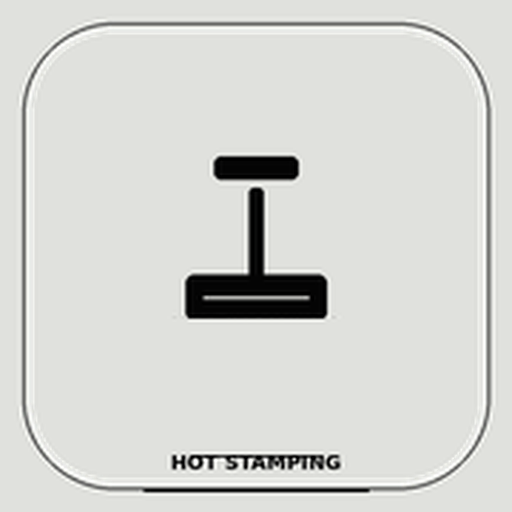
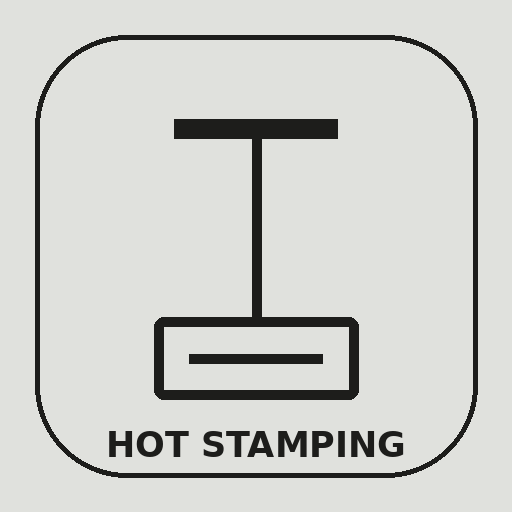
Add files via upload

Changed region(s): [[0.0312, 0.0312, 0.9688, 0.9688], [0.2812, 0.2188, 0.7188, 0.7812]]

diff --git a/hot-stamping/index.html b/hot-stamping/index.html
@@ -1,141 +1,12 @@
-<!DOCTYPE html>
-<html lang="fr"><head><meta charset="utf-8"/><meta content="width=device-width, initial-scale=1.0, maximum-scale=1.0, user-scalable=no, viewport-fit=cover" name="viewport"/><meta content="yes" name="apple-mobile-web-app-capable"/><meta content="#d8d8d3" name="theme-color"/><link href="manifest.json" rel="manifest"/><link href="apple-touch-icon.png" rel="apple-touch-icon"/><title>Hot Stamping Calculator V2</title><style>
-:root{--bg:#d8d8d3;--card:#eeeeea;--card2:#f6f6f2;--line:#8d8d86;--txt:#1d1d1b;--muted:#5f5f58;--accent:#1d1d1b;--yellow:#f4f1df;--yellowb:#9a9a91;--ok:#237a3b;--warn:#a76b00;--err:#b42318;--res:#e5e5df;--valid:#d9eadb}*{box-sizing:border-box;-webkit-tap-highlight-color:transparent}html,body{margin:0;background:var(--bg);color:var(--txt);font-family:-apple-system,BlinkMacSystemFont,"Segoe UI",Roboto,Helvetica,Arial,sans-serif;font-size:17px;line-height:1.4;overflow-x:hidden}body{padding:env(safe-area-inset-top) env(safe-area-inset-right) max(18px,env(safe-area-inset-bottom)) env(safe-area-inset-left)}.wrap{width:100%;max-width:none;margin:0;padding:12px}.card{background:var(--card);border:1px solid var(--line);border-radius:16px;padding:16px;margin-bottom:16px;box-shadow:0 4px 16px rgba(0,0,0,.12)}.brand-card{text-align:center;padding:18px}.brand-logo{width:142px;max-width:42%;height:auto;display:block;margin:0 auto}.card h2{margin:0 0 14px;font-size:15px;text-transform:uppercase;letter-spacing:.6px;color:var(--accent);display:flex;align-items:center;gap:8px}.card h2 .dot{width:8px;height:8px;border-radius:50%;background:var(--accent)}label{display:block;font-size:14px;color:var(--muted);margin:12px 0 6px;font-weight:650}.field{position:relative}.unit{position:absolute;right:14px;top:50%;transform:translateY(-50%);color:var(--muted);font-size:14px;pointer-events:none}select,input{width:100%;padding:14px 15px;font-size:17px;border-radius:12px;border:1.5px solid var(--yellowb);background:#fff;color:#1d1d1b;font-family:inherit;appearance:none;-webkit-appearance:none}input:focus,select:focus{outline:none;border-color:var(--accent);box-shadow:0 0 0 3px rgba(29,29,27,.12)}textarea{width:100%;min-height:74px;padding:14px 15px;font-size:17px;border-radius:12px;border:1.5px solid var(--yellowb);background:#fff;color:#1d1d1b;font-family:inherit}.row{display:grid;grid-template-columns:1fr 1fr;gap:12px}.hidden{display:none!important}.res-main{display:grid;grid-template-columns:1fr 1fr 1fr;gap:12px;margin-bottom:14px}.res-big{background:var(--res);border:1px solid var(--line);border-radius:14px;padding:16px;text-align:center}.res-big.valid{background:var(--valid);border-color:#237a3b}.res-big .lbl{font-size:12px;color:var(--muted);text-transform:uppercase;letter-spacing:.5px}.res-big .val{font-size:30px;font-weight:850;color:#1d1d1b;margin:4px 0 0;line-height:1}.res-big .u{font-size:13px;color:var(--muted);font-weight:650}.res-line{display:flex;justify-content:space-between;align-items:center;padding:12px 0;border-bottom:1px solid var(--line);gap:12px}.res-line:last-child{border-bottom:none}.res-line .k{font-size:14px;color:var(--muted);flex:1}.res-line .v{font-size:16px;font-weight:750;text-align:right}.badge{display:inline-block;padding:3px 10px;border-radius:20px;font-size:12px;font-weight:750}.badge.ok{background:rgba(35,122,59,.14);color:#237a3b}.badge.warn{background:rgba(167,107,0,.14);color:#734a00}.vigil{background:rgba(29,29,27,.06);border-left:3px solid var(--accent);padding:12px 14px;border-radius:8px;margin-top:14px;font-size:14px;color:#30302d}.valid-banner{background:rgba(35,122,59,.1);border-left:3px solid var(--ok);padding:10px 14px;border-radius:8px;margin:12px 0;font-size:13px;color:#237a3b}.btn{width:100%;padding:15px;border:none;border-radius:12px;font-size:16px;font-weight:750;margin-top:12px}.btn-save{background:#1d1d1b;color:#fff}.btn-ghost{background:var(--card2);color:var(--muted);font-size:14px;font-weight:650;padding:13px;border:1px solid var(--line)}.btn-row{display:grid;grid-template-columns:1fr 1fr;gap:10px}.calib-item{background:var(--card2);border:1px solid var(--line);border-radius:10px;padding:12px;margin-bottom:8px;font-size:13px}.calib-item .t{font-weight:750;color:#1d1d1b;font-size:13px}.calib-item .s{color:var(--muted);margin-top:4px}.empty{color:var(--muted);font-size:13px;text-align:center;padding:14px}.toast{position:fixed;bottom:24px;left:50%;transform:translateX(-50%);background:#1d1d1b;color:#fff;padding:12px 22px;border-radius:30px;font-weight:750;font-size:15px;box-shadow:0 8px 24px rgba(0,0,0,.25);opacity:0;transition:opacity .3s;z-index:50}.toast.show{opacity:1}.label-row{display:flex;align-items:center;justify-content:space-between;gap:10px;margin:12px 0 6px}.label-row label{margin:0}.mini-plus{width:34px;height:34px;border:none;border-radius:10px;background:var(--accent);color:#fff;font-size:24px;font-weight:850;line-height:1;display:flex;align-items:center;justify-content:center;box-shadow:0 3px 10px rgba(0,0,0,.16)}.selector-card{padding:10px;margin-bottom:16px}.version-row{display:grid;grid-template-columns:1fr 1fr 1fr;gap:8px}.version-row a{display:block;text-align:center;text-decoration:none;color:var(--txt);background:var(--card2);border:1px solid var(--line);border-radius:12px;padding:12px 6px;font-size:14px;font-weight:800}.version-row a.active{background:var(--accent);color:#fff;border-color:var(--accent)}.foot{text-align:center;color:var(--muted);font-size:12px;margin-top:8px}
-
-/* ============================================================
-   FPM Manufacturing Tools - Layout harmonise type Laser
-   Ajout: disposition 2 colonnes + carte bottom pleine largeur
-   Ne modifie pas les calculs ni les tables Supabase.
-   ============================================================ */
-html,body{background:var(--bg)!important;color:var(--txt)!important;}
-body{padding:16px 16px 40px!important;}
-.wrap{width:100%!important;max-width:1180px!important;margin:0 auto!important;padding:0!important;display:grid!important;grid-template-columns:1fr 1fr!important;gap:14px!important;}
-.card{border-radius:20px!important;box-shadow:0 4px 16px rgba(0,0,0,.12)!important;margin-bottom:0!important;}
-.card h2{font-size:18px!important;text-transform:none!important;letter-spacing:0!important;}
-.card h2 .dot{width:10px!important;height:10px!important;background:var(--accent)!important;}
-select,input,textarea{background:#fff!important;color:var(--txt)!important;border-color:var(--yellowb)!important;}
-input:focus,select:focus,textarea:focus{border-color:var(--accent)!important;box-shadow:0 0 0 3px rgba(29,29,27,.12)!important;}
-.res-big{border-radius:18px!important;box-shadow:none!important;}
-.res-big.valid{background:var(--valid)!important;border-color:var(--ok)!important;}
-.btn-save{background:#1d1d1b!important;color:#fff!important;background-image:none!important;}
-.btn-ghost{background:var(--card2)!important;color:var(--txt)!important;border:1px solid var(--line)!important;}
-.hub-back-btn{position:fixed;top:max(12px,env(safe-area-inset-top));left:max(12px,env(safe-area-inset-left));z-index:9999;height:42px;padding:0 14px;border-radius:999px;border:1px solid var(--line);background:var(--card2);color:var(--txt);font-size:14px;font-weight:850;display:flex;align-items:center;gap:7px;box-shadow:0 4px 14px rgba(0,0,0,.14);cursor:pointer}.hub-back-btn:hover{background:var(--accent);color:#fff}
-@media(max-width:860px){body{padding:12px 12px 32px!important}.wrap{display:block!important;max-width:none!important}.card,#results,#calib{margin-bottom:14px!important}.hub-back-btn{height:38px;padding:0 11px;font-size:13px}}
-
-/* Hot Stamping: logo + langues en haut, entrees a gauche, resultats a droite, calibration en bas */
-.brand-card,.selector-card{grid-column:1 / -1!important;}
-.brand-card{padding:18px!important;}
-.brand-logo{max-width:110px!important;width:110px!important;}
-.wrap > .card:nth-of-type(3){grid-column:1!important;grid-row:3!important;}
-.wrap > .card:nth-of-type(4){grid-column:1!important;grid-row:4!important;}
-#results{grid-column:2!important;grid-row:3 / span 2!important;}
-#calib{grid-column:1 / -1!important;display:grid!important;grid-template-columns:1fr 1fr!important;gap:14px!important;}
-#calib .card{margin-bottom:0!important;}
-@media(max-width:860px){#calib{display:block!important}.brand-logo{width:96px!important;}}
-
-</style><link href="layout-final-hot-stamping.css" rel="stylesheet"/></head><body>
-<button class="hub-back-btn" onclick="goHub()" type="button">🏠 Hub</button>
-<div class="wrap">
-<div class="card brand-card"><img alt="Hot Stamping" class="brand-logo" src="logo-hot-stamping.png"/></div><div class="card selector-card"><div class="version-row"><a href="#" id="lnk-fr" onclick="setLang('fr');return false;">Version FR</a><a href="#" id="lnk-en" onclick="setLang('en');return false;">Version English</a><a href="#" id="lnk-pt" onclick="setLang('pt');return false;">Version Português</a></div></div><div class="card"><h2><span class="dot"></span><span data-t="machineTitle"></span></h2><div class="label-row"><label data-t="machine"></label><button class="mini-plus" onclick="addHotMachine()">+</button></div><select id="machine"></select><div class="row"><div><label data-t="tmax"></label><div class="field"><input id="machineTempMax" type="number" value="160"/><span class="unit">°C</span></div></div><div><label data-t="pmax"></label><div class="field"><input id="machinePressureMax" type="number" value="8"/><span class="unit">bar</span></div></div></div><label data-t="site"></label><input id="site" type="text" value="Atelier"/></div><div class="card"><h2><span class="dot"></span><span data-t="inputsTitle"></span></h2><div class="label-row"><label data-t="support"></label><button class="mini-plus" onclick="addHotSupport()">+</button></div><select id="support"></select><div class="label-row"><label data-t="foil"></label><button class="mini-plus" onclick="addHotFoil()">+</button></div><select id="foil"></select><div class="row"><div><label data-t="area"></label><div class="field"><input id="area" step="0.1" type="number" value="10"/><span class="unit">cm²</span></div></div><div><label data-t="operator"></label><input id="operator" type="text" value="Atelier"/></div></div></div><div id="results"><div class="card"><h2><span class="dot"></span>📋 <span data-t="quick"></span></h2><div class="res-main"><div class="res-big" id="boxTemp"><div class="lbl" data-t="temp"></div><div class="val" id="rTemp">–</div><div class="u">°C</div></div><div class="res-big" id="boxPress"><div class="lbl" data-t="pressure"></div><div class="val" id="rPressure">–</div><div class="u">bar</div></div><div class="res-big" id="boxDwell"><div class="lbl" data-t="dwell"></div><div class="val" id="rDwell">–</div><div class="u">s</div></div></div><div class="res-line"><span class="k" data-t="supplier"></span><span class="v" id="rSupplier">–</span></div><div class="res-line"><span class="k" data-t="color"></span><span class="v" id="rColor">–</span></div><div class="res-line"><span class="k" data-t="alert"></span><span class="v" id="rAlert">–</span></div><div class="vigil" id="rVigil">–</div></div></div><div id="calib"><div class="card"><h2><span class="dot"></span>🎯 <span data-t="calib"></span></h2><p data-t="calibp" style="font-size:13px;color:var(--muted);margin:0 0 6px"></p><div class="row"><div><label data-t="ctemp"></label><div class="field"><input id="cTemp" type="number"/><span class="unit">°C</span></div></div><div><label data-t="cpress"></label><div class="field"><input id="cPress" step="0.1" type="number"/><span class="unit">bar</span></div></div></div><label data-t="cdwell"></label><div class="field"><input id="cDwell" step="0.01" type="number"/><span class="unit">s</span></div><label data-t="note"></label><textarea id="cNote"></textarea><button class="btn btn-save" data-t="save" onclick="saveCalib()"></button><div class="btn-row"><button class="btn btn-ghost" data-t="fill" onclick="fillFromResult()"></button><button class="btn btn-ghost" onclick="loadHotCalibrations()">↻ Recharger</button></div></div></div><div class="card hot-supabase-card"><h2><span class="dot"></span>☁ <span data-t="cloud"></span></h2><div id="hotCalibList"><div class="empty">Aucune donnée chargée.</div></div></div><div class="toast" id="toast"></div><p class="foot" data-t="foot"></p></div><script>
-const SUPABASE_URL="https://erzuvpswagzwlrxgctaj.supabase.co";
-const SUPABASE_KEY="sb_publishable_EERLI2l3AjQWkCLsMK3kbA_DMny2RFr";
-const CALIB_TABLE='Hot_Stamping_calibrations';
-let lang=localStorage.getItem('hot_lang')||'fr';const $=id=>document.getElementById(id);function t(k){return TXT[lang][k]||TXT.fr[k]||k;}function num(id){return parseFloat(($(id).value||'').toString().replace(',','.'));}function r1(x){return (Math.round(Number(x||0)*10)/10).toString().replace('.',lang==='en'?'.':',');}function r2(x){return (Math.round(Number(x||0)*100)/100).toString().replace('.',lang==='en'?'.':',');}function toast(msg){let to=$('toast');to.textContent=msg;to.className='toast show';setTimeout(()=>to.className='toast',1800);}function sbHeaders(extra={}){return{apikey:SUPABASE_KEY,Authorization:`Bearer ${SUPABASE_KEY}`,'Content-Type':'application/json',...extra};}
-const TXT={fr:{machineTitle:'Entrées machine',machine:'Machine',tmax:'Température max machine',pmax:'Pression max machine',site:'Site',inputsTitle:'Support & folio',support:'Support',foil:'Folio',area:'Surface marquée',operator:'Opérateur',quick:'Lecture rapide',temp:'Température',pressure:'Pression',dwell:'Temps de pose',supplier:'Fournisseur',color:'Couleur',alert:'Alerte machine',calib:'Calibration atelier',calibp:'Les champs sont préremplis depuis le folio sélectionné. Modifiez-les puis enregistrez le réglage validé.',ctemp:'Température validée',cpress:'Pression validée',cdwell:'Temps validé',note:'Remarque',save:'💾 Enregistrer comme réglage validé',fill:'⤵ Reprendre valeurs calculées',cloud:'Bibliothèque Supabase Hot Stamping',foot:'Hot Stamping Calculator V2 Supabase FR / EN / PT.'},en:{machineTitle:'Machine inputs',machine:'Machine',tmax:'Machine max temperature',pmax:'Machine max pressure',site:'Site',inputsTitle:'Support & foil',support:'Support',foil:'Foil',area:'Stamped area',operator:'Operator',quick:'Quick read',temp:'Temperature',pressure:'Pressure',dwell:'Dwell time',supplier:'Supplier',color:'Color',alert:'Machine alert',calib:'Shop calibration',calibp:'Fields are pre-filled from the selected foil. Adjust them before saving the validated setting.',ctemp:'Validated temperature',cpress:'Validated pressure',cdwell:'Validated dwell time',note:'Note',save:'💾 Save as validated setting',fill:'⤵ Reuse calculated values',cloud:'Supabase Hot Stamping library',foot:'Hot Stamping Calculator V2 Supabase FR / EN / PT.'},pt:{machineTitle:'Entradas da máquina',machine:'Máquina',tmax:'Temperatura máxima da máquina',pmax:'Pressão máxima da máquina',site:'Site',inputsTitle:'Suporte & folha',support:'Suporte',foil:'Folha',area:'Área marcada',operator:'Operador',quick:'Leitura rápida',temp:'Temperatura',pressure:'Pressão',dwell:'Tempo de contacto',supplier:'Fornecedor',color:'Cor',alert:'Alerta máquina',calib:'Calibração de oficina',calibp:'Os campos são preenchidos a partir da folha selecionada. Ajuste antes de guardar.',ctemp:'Temperatura validada',cpress:'Pressão validada',cdwell:'Tempo validado',note:'Nota',save:'💾 Guardar como ajuste validado',fill:'⤵ Reutilizar valores calculados',cloud:'Biblioteca Supabase Hot Stamping',foot:'Hot Stamping Calculator V2 Supabase FR / EN / PT.'}};
-const DEFAULT_MACHINES=[{name:'Générique',temperature_max:160,pressure_max:8,dwell_time_max:2,site:'Atelier'},{name:'Presse manuelle',temperature_max:150,pressure_max:6,dwell_time_max:2,site:'Atelier'}];
-const DEFAULT_SUPPORTS=[{code:'paper',name_fr:'Papier couché / carton couché',name_en:'Coated paper / coated board',name_pt:'Papel revestido / cartão revestido',family:'Papier'},{code:'pu',name_fr:'PU / similicuir',name_en:'PU / synthetic leather',name_pt:'PU / couro sintético',family:'Textile'},{code:'texterra',name_fr:'Texterra',name_en:'Texterra',name_pt:'Texterra',family:'Microfibre'},{code:'majilite',name_fr:'Majilite',name_en:'Majilite',name_pt:'Majilite',family:'Microfibre'}];
-const DEFAULT_FOILS=[{support_code:'paper',foil_code:'kurz_luxor_hc',supplier:'KURZ',color:'Gold / Silver',label_fr:'KURZ - LUXOR / ALUFIN HC',label_en:'KURZ - LUXOR / ALUFIN HC',label_pt:'KURZ - LUXOR / ALUFIN HC',temperature_min:95,temperature_rec:105,temperature_max:120,pressure_min:1.5,pressure_rec:2,pressure_max:3,dwell_time_min:.4,dwell_time_rec:.8,dwell_time_max:1.2},{support_code:'pu',foil_code:'standard_pu',supplier:'Standard',color:'Metallic',label_fr:'Folio standard PU',label_en:'Standard PU foil',label_pt:'Folha standard PU',temperature_min:105,temperature_rec:120,temperature_max:135,pressure_min:2,pressure_rec:3,pressure_max:4.5,dwell_time_min:.5,dwell_time_rec:.9,dwell_time_max:1.4},{support_code:'texterra',foil_code:'texterra_test',supplier:'Atelier',color:'Test',label_fr:'Folio test Texterra',label_en:'Texterra test foil',label_pt:'Folha teste Texterra',temperature_min:105,temperature_rec:118,temperature_max:130,pressure_min:2,pressure_rec:3.2,pressure_max:5,dwell_time_min:.5,dwell_time_rec:.8,dwell_time_max:1.2}];
-let machines=[...DEFAULT_MACHINES],supports=[...DEFAULT_SUPPORTS],foils=[...DEFAULT_FOILS],remoteCalibs=[];
-function setLang(l){lang=l;localStorage.setItem('hot_lang',l);refreshText();}function refreshText(){document.documentElement.lang=lang;document.querySelectorAll('[data-t]').forEach(e=>e.innerHTML=t(e.dataset.t));['fr','en','pt'].forEach(l=>{let a=$('lnk-'+l);if(a)a.className=l===lang?'active':''});fillMachines();fillSupports();fillFoils();calc();}
-function labelSupport(s){return s['name_'+lang]||s.name_fr||s.code;}function labelFoil(f){return f['label_'+lang]||f.label_fr||f.foil_code;}function fillMachines(cur=$('machine')?.value){$('machine').innerHTML='';machines.forEach(m=>$('machine').add(new Option(m.name,m.name)));if(cur&&machines.some(m=>m.name===cur))$('machine').value=cur;}function fillSupports(cur=$('support')?.value){$('support').innerHTML='';supports.forEach(s=>$('support').add(new Option(labelSupport(s),s.code)));if(cur&&supports.some(s=>s.code===cur))$('support').value=cur;}function fillFoils(cur=$('foil')?.value){let sc=$('support').value;$('foil').innerHTML='';foils.filter(f=>!f.support_code||f.support_code===sc).forEach(f=>$('foil').add(new Option(labelFoil(f),f.foil_code)));if(cur&&foils.some(f=>f.foil_code===cur))$('foil').value=cur;calc();}
-function currentFoil(){return foils.find(f=>f.foil_code===$('foil').value)||foils[0];}function currentMachine(){return machines.find(m=>m.name===$('machine').value)||machines[0];}function currentSupport(){return supports.find(s=>s.code===$('support').value)||supports[0];}
-function calc(){const f=currentFoil(),m=currentMachine(); if(!f||!m)return;let temp=f.temperature_rec||105,press=f.pressure_rec||2,dwell=f.dwell_time_rec||.8;$('rTemp').textContent=r1(temp);$('rPressure').textContent=r1(press);$('rDwell').textContent=r2(dwell);$('rSupplier').textContent=f.supplier||'–';$('rColor').textContent=f.color||'–';let warns=[];if(m.temperature_max&&temp>m.temperature_max)warns.push('Température > machine');if(m.pressure_max&&press>m.pressure_max)warns.push('Pression > machine');$('rAlert').innerHTML=warns.length?'<span class="badge warn">'+warns.join(' · ')+'</span>':'<span class="badge ok">OK</span>';$('rVigil').textContent='⚠ Valider par essai atelier avant production.';$('cTemp').value=r1(temp).replace(',','.');$('cPress').value=r1(press).replace(',','.');$('cDwell').value=r2(dwell).replace(',','.');}
-async function apiGet(table,query='?select=*'){const r=await fetch(`${SUPABASE_URL}/rest/v1/${table}${query}`,{headers:sbHeaders()});if(!r.ok)throw new Error(`${r.status} ${await r.text()}`);return r.json()}async function apiInsert(table,payload){const r=await fetch(`${SUPABASE_URL}/rest/v1/${table}`,{method:'POST',headers:sbHeaders({Prefer:'return=representation'}),body:JSON.stringify(payload)});if(!r.ok)throw new Error(`${r.status} ${await r.text()}`);return r.json()}
-function slug(v){return String(v||'').toLowerCase().normalize('NFD').replace(/[\u0300-\u036f]/g,'').replace(/[^a-z0-9]+/g,'_').replace(/^_+|_+$/g,'').slice(0,40)||('item_'+Date.now())}function nval(v,d){const n=parseFloat(String(v??'').replace(',','.'));return Number.isFinite(n)?n:d;}
-async function loadEditableLibrary(){try{const m=await apiGet('hot_machines','?select=*&order=name.asc');if(m.length)machines=[...DEFAULT_MACHINES,...m.filter(x=>!DEFAULT_MACHINES.some(d=>d.name===x.name))]}catch(e){console.warn('hot_machines',e)}try{const s=await apiGet('hot_supports','?select=*&order=name_fr.asc');if(s.length)supports=[...DEFAULT_SUPPORTS,...s.filter(x=>!DEFAULT_SUPPORTS.some(d=>d.code===x.code))]}catch(e){console.warn('hot_supports',e)}try{const f=await apiGet('hot_foils','?select=*&order=label_fr.asc');if(f.length)foils=[...DEFAULT_FOILS,...f.filter(x=>!DEFAULT_FOILS.some(d=>d.foil_code===x.foil_code))]}catch(e){console.warn('hot_foils',e)}fillMachines();fillSupports();fillFoils();}
-async function addHotMachine(){
-const name=prompt('Nom de la machine',$('machine').value||'Nouvelle machine');
-if(!name)return;
-
-const temperature_max=nval(prompt('Température max °C','160'),160);
-const pressure_max=nval(prompt('Pression max bar','8'),8);
-const dwell_time_max=nval(prompt('Temps max s','2'),2);
-
-const site=prompt('Site',$('site').value||'Atelier')||'Atelier';
-try{
-const [row]=await apiInsert('hot_machines',{
-name:name.trim(),
-temperature_max,
-pressure_max,
-dwell_time_max,
-site
-});
-
-machines.push(row);
-fillMachines(row.name);
-
-applyMachineData();
-
-toast('Machine ajoutée + Supabase');
-
-}
-catch(e){
-  console.error(e);
-
-  alert(
-    'ERREUR SUPABASE :\n\n' +
-    e.message
-  );
-
-  toast('Erreur ajout machine');
-}
-}
-async function addHotSupport(){const name_fr=prompt('Nom support FR','Nouveau support');if(!name_fr)return;const code=slug(prompt('Code support simple',slug(name_fr))||name_fr);const name_en=prompt('Nom support EN',name_fr)||name_fr;const name_pt=prompt('Nom support PT',name_fr)||name_fr;const family=prompt('Famille','Support ajouté')||'Support ajouté';try{const [row]=await apiInsert('hot_supports',{code,name_fr:name_fr.trim(),name_en:name_en.trim(),name_pt:name_pt.trim(),family:family.trim()});supports.push(row);fillSupports(row.code);fillFoils();toast('Support ajouté + Supabase')}catch(e){console.error(e);toast('Erreur ajout support')}}
-async function addHotFoil(){const support_code=$('support').value;const label_fr=prompt('Nom folio FR','Nouveau folio');if(!label_fr)return;const foil_code=slug(prompt('Code folio simple',slug(label_fr))||label_fr);const label_en=prompt('Nom folio EN',label_fr)||label_fr;const label_pt=prompt('Nom folio PT',label_fr)||label_fr;const supplier=prompt('Fournisseur','KURZ')||'';const color=prompt('Couleur','')||'';const temperature_rec=nval(prompt('Température recommandée °C','110'),110);const pressure_rec=nval(prompt('Pression recommandée bar','2'),2);const dwell_time_rec=nval(prompt('Temps recommandé s','0.8'),.8);try{const [row]=await apiInsert('hot_foils',{support_code,foil_code,label_fr:label_fr.trim(),label_en:label_en.trim(),label_pt:label_pt.trim(),supplier:supplier.trim(),color:color.trim(),temperature_min:temperature_rec-10,temperature_rec,temperature_max:temperature_rec+10,pressure_min:Math.max(0,pressure_rec-.5),pressure_rec,pressure_max:pressure_rec+.5,dwell_time_min:Math.max(0,dwell_time_rec-.2),dwell_time_rec,dwell_time_max:dwell_time_rec+.2});foils.push(row);fillFoils(row.foil_code);toast('Folio ajouté + Supabase')}catch(e){console.error(e);toast('Erreur ajout folio')}}
-async function saveCalib(){const f=currentFoil(),s=currentSupport();const payload={material:labelSupport(s),foil:labelFoil(f),temperature:num('cTemp'),pressure:num('cPress'),dwell_time:num('cDwell'),operator:$('operator').value||'Atelier',site:$('site').value||'Atelier',comments:$('cNote').value||''};if(!payload.temperature||!payload.pressure||!payload.dwell_time){toast('Valeurs ?');return}try{await apiInsert(CALIB_TABLE,payload);toast('Enregistré local + Supabase');loadHotCalibrations()}catch(e){console.error(e);toast('Erreur Supabase')}}function fillFromResult(){calc();}
-async function loadHotCalibrations(){const host=$('hotCalibList');host.innerHTML='<div class="empty">Chargement Supabase...</div>';try{remoteCalibs=await apiGet(CALIB_TABLE,'?select=*&order=created_at.desc&limit=50');renderHotCalibrations()}catch(e){host.innerHTML=`<div class="empty">Supabase non disponible : ${String(e.message).replace(/[<>]/g,'')}</div>`}}
-function renderHotCalibrations(){const host=$('hotCalibList');if(!remoteCalibs.length){host.innerHTML='<div class="empty">Aucune calibration Supabase enregistrée pour le moment.</div>';return}host.innerHTML=remoteCalibs.map(r=>{const d=r.created_at?new Date(r.created_at).toLocaleDateString('fr-FR'):'';return `<div class="calib-item"><div class="t">${esc(r.material)} · ${esc(r.foil)}</div><div class="s">${r.temperature??''} °C · ${r.pressure??''} bar · ${r.dwell_time??''} s<br>${esc(r.site)} · ${esc(r.operator)} · ${d}${r.comments?'<br><i>'+esc(r.comments)+'</i>':''}</div></div>`}).join('')}function esc(v){return String(v??'').replace(/[<>]/g,'')}
-function applyMachineData(){
-
-const m = machines.find(
-x => x.name === $('machine').value
-);
-
-if(!m) return;
-
-if(m.temperature_max != null)
-$('machineTempMax').value = m.temperature_max;
-
-if(m.pressure_max != null)
-$('machinePressureMax').value = m.pressure_max;
-
-if(m.site)
-$('site').value = m.site;
-
-calc();
-
-}
-document.addEventListener('change',e=>{
-
-if(e.target.id==='machine'){
-applyMachineData();
-return;
-}
-
-if(e.target.id==='support'){
-fillFoils();
-return;
-}
-
-calc();
-
-});
-document.addEventListener('input',e=>{if(['area','machineTempMax','machinePressureMax'].includes(e.target.id))calc()});
-function goHub(){
-    window.location.href = "/";
-}
-
-refreshText();
-loadEditableLibrary();
-loadHotCalibrations();
+<!doctype html><html lang="fr"><head><meta charset="utf-8"><meta name="viewport" content="width=device-width, initial-scale=1, viewport-fit=cover"><title>Hot Stamping Calculator</title><meta name="theme-color" content="#d8d8d3"><link rel="manifest" href="manifest.json"><link rel="apple-touch-icon" href="apple-touch-icon.png"><script src="https://cdn.jsdelivr.net/npm/@supabase/supabase-js@2"></script><script src="../auth-guard.js"></script><style>
+:root{--bg:#d8d8d3;--card:#eeeeea;--card2:#f6f6f2;--line:#8d8d86;--txt:#1d1d1b;--muted:#5f5f58;--accent:#1d1d1b;--ok:#237a3b;--warn:#a76b00;--err:#b42318;--soft:#e5e5df;--valid:#d9eadb;}
+*{box-sizing:border-box}html,body{margin:0;background:var(--bg);color:var(--txt);font-family:-apple-system,BlinkMacSystemFont,"Segoe UI",Roboto,Arial,sans-serif}body{padding:18px;padding-bottom:40px}.wrap{max-width:1180px;margin:auto}.top{display:flex;align-items:center;justify-content:space-between;gap:16px;margin-bottom:16px}.brand{display:flex;align-items:center;gap:14px}.logo{width:76px;height:76px;border:2px solid var(--txt);border-radius:20px;background:#e0e1dd;display:grid;place-items:center;box-shadow:inset 0 0 0 1px #fff}.logo svg{width:54px;height:54px}.title h1{margin:0;font-size:31px;letter-spacing:.2px}.title p{margin:4px 0 0;color:var(--muted);font-size:14px}.top-actions{display:flex;align-items:center;gap:8px;flex-wrap:wrap;justify-content:flex-end}.hub-btn,.langs button{border:1px solid var(--line);background:var(--card2);border-radius:999px;padding:10px 14px;color:var(--txt);font-weight:850;text-decoration:none;cursor:pointer;box-shadow:0 4px 14px rgba(0,0,0,.10)}.langs{display:flex;gap:8px;flex-wrap:wrap}.langs button.active{background:var(--accent);color:white}.layout{display:grid;grid-template-columns:1fr 1fr;gap:14px;align-items:start}.col{display:flex;flex-direction:column;gap:14px}.card{background:var(--card);border:1px solid var(--line);border-radius:20px;padding:16px;box-shadow:0 4px 16px rgba(0,0,0,.12)}.card h2{margin:0 0 12px;font-size:18px;display:flex;align-items:center;gap:8px}.dot{width:10px;height:10px;border-radius:10px;background:var(--accent)}label{display:block;color:var(--muted);font-size:13px;font-weight:750;margin:10px 0 5px}.row{display:grid;grid-template-columns:1fr 1fr;gap:10px}.inputline{display:flex;gap:7px;align-items:center}select,input,textarea{width:100%;padding:12px;border-radius:12px;border:1px solid var(--line);background:white;color:var(--txt);font-size:15px}textarea{min-height:78px;resize:vertical}.unit{color:var(--muted);font-size:13px;white-space:nowrap}.mini-plus{min-width:38px;height:38px;border:none;border-radius:12px;background:var(--accent);color:white;font-size:22px;font-weight:800}.res-big{border:1px solid var(--line);background:var(--soft);border-radius:18px;padding:13px;margin:10px 0}.res-big.valid{background:var(--valid);border-color:var(--ok)}.res-big .lbl{font-size:13px;color:var(--muted)}.res-big .val{font-size:30px;font-weight:900;margin-top:3px}.res-line{display:flex;justify-content:space-between;border-bottom:1px solid var(--line);padding:9px 0;gap:12px}.res-line .k{color:var(--muted)}.badge{display:inline-flex;padding:6px 9px;border-radius:999px;font-size:12px;font-weight:800}.badge.ok{background:rgba(35,122,59,.14);color:var(--ok)}.badge.warn{background:rgba(167,107,0,.14);color:#734a00}.badge.err{background:rgba(180,35,24,.12);color:var(--err)}.note{background:rgba(29,29,27,.06);border-left:4px solid var(--accent);padding:10px;border-radius:12px;margin-top:10px;color:#30302d}.btn{width:100%;border:none;border-radius:13px;background:var(--accent);color:#fff;padding:13px 14px;font-weight:850;font-size:15px;margin-top:10px}.btn.secondary{background:var(--card2);color:var(--txt);border:1px solid var(--line)}.lib{margin-top:14px}.item{background:var(--card2);border:1px solid var(--line);border-radius:13px;padding:11px;margin-top:9px}.item .t{font-weight:850}.item .s{color:var(--muted);font-size:13px;margin-top:3px}.toast{position:fixed;left:50%;bottom:24px;transform:translateX(-50%);background:#1d1d1b;color:#fff;padding:11px 14px;border-radius:999px;box-shadow:0 8px 24px rgba(0,0,0,.25);display:none;z-index:99}.foot{margin-top:14px;color:var(--muted);font-size:12px;text-align:center}@media(max-width:860px){body{padding:12px}.top{align-items:flex-start;flex-direction:column}.top-actions{justify-content:flex-start}.layout{grid-template-columns:1fr}.row{grid-template-columns:1fr}.title h1{font-size:24px}.logo{width:64px;height:64px}.logo svg{width:46px;height:46px}}
+</style></head><body><div class="wrap"><div class="top"><div class="brand"><div class="logo"><svg viewBox="0 0 100 100" fill="none" stroke="#1d1d1b" stroke-width="8" stroke-linecap="round" stroke-linejoin="round"><path d="M30 26 H70"/><path d="M50 26 V62"/><path d="M32 62 H68 V78 H32 Z"/><path d="M38 70 H62"/></svg></div><div class="title"><h1 data-t="title">Hot Stamping Calculator</h1><p data-t="subtitle">Supports + folios + température / pression / temps</p></div></div><div class="top-actions"><button class="hub-btn" onclick="goHub()">🏠 Hub</button><div class="langs"><button data-lang="fr" onclick="setLang('fr')">French</button><button data-lang="en" onclick="setLang('en')">English</button><button data-lang="pt" onclick="setLang('pt')">Português</button></div></div></div><div class="layout"><div class="col"><section class="card"><h2><span class="dot"></span><span data-t="machineInputs"></span></h2><label data-t="machine"></label><div class="inputline"><select id="machine"></select><button class="mini-plus" onclick="addMachine()">+</button></div><div class="row"><div><label data-t="tempMax"></label><div class="inputline"><input id="tempMax" type="number" value="180"><span class="unit">°C</span></div></div><div><label data-t="pressMax"></label><div class="inputline"><input id="pressMax" type="number" value="8" step="0.1"><span class="unit">bar</span></div></div></div><label data-t="site"></label><input id="site" value="Atelier"></section><section class="card"><h2><span class="dot"></span><span data-t="supportFoil"></span></h2><label data-t="support"></label><div class="inputline"><select id="support"></select><button class="mini-plus" onclick="addSupport()">+</button></div><label data-t="foil"></label><div class="inputline"><select id="foil"></select><button class="mini-plus" onclick="addFoil()">+</button></div><label data-t="area"></label><div class="inputline"><input id="area" type="number" value="100" step="1"><span class="unit">cm²</span></div><div class="note" id="hotNote"></div></section></div><div class="col"><section class="card"><h2><span class="dot"></span><span data-t="quickRead"></span></h2><div class="res-big valid"><div class="lbl" data-t="temperature"></div><div class="val"><span id="rTemp">–</span><span class="unit"> °C</span></div></div><div class="res-big"><div class="lbl" data-t="pressure"></div><div class="val"><span id="rPress">–</span><span class="unit"> bar</span></div></div><div class="res-line"><span class="k" data-t="dwell"></span><b id="rDwell">–</b></div><span id="hotBadge" class="badge ok">OK</span></section><section class="card"><h2><span class="dot"></span><span data-t="calibration"></span></h2><div class="row"><div><label data-t="validTemp"></label><input id="cTemp" type="number"></div><div><label data-t="validPress"></label><input id="cPress" type="number" step="0.1"></div></div><label data-t="validDwell"></label><input id="cDwell" type="number" step="0.01"><label data-t="comments"></label><textarea id="comments"></textarea><button class="btn" onclick="saveCalib()" data-t="save"></button><button class="btn secondary" onclick="fillCalib()" data-t="useCalc"></button></section></div></div><section class="card lib"><h2><span class="dot"></span><span data-t="library"></span></h2><button class="btn secondary" onclick="loadCalibs()" data-t="reload"></button><div id="calibs"></div></section><div class="foot" data-t="foot"></div></div><div class="toast" id="toast"></div><script>
+const SUPABASE_URL="https://erzuvpswagzwlrxgctaj.supabase.co", SUPABASE_KEY="sb_publishable_EERLI2l3AjQWkCLsMK3kbA_DMny2RFr"; const sb=window.supabase.createClient(SUPABASE_URL,SUPABASE_KEY); const $=id=>document.getElementById(id); let lang=localStorage.getItem('hot_lang')||'fr';
+const TXT={fr:{title:'Hot Stamping Calculator',subtitle:'Supports + folios + température / pression / temps',machineInputs:'Entrées machine',supportFoil:'Support & Folio',machine:'Machine',tempMax:'Température max',pressMax:'Pression max',site:'Site',support:'Support',foil:'Folio',area:'Surface',quickRead:'Lecture rapide',temperature:'Température recommandée',pressure:'Pression recommandée',dwell:'Temps de contact',calibration:'Calibration atelier',validTemp:'Température validée',validPress:'Pression validée',validDwell:'Temps validé',comments:'Remarque',save:'💾 Enregistrer comme réglage validé',useCalc:'⤵ Reprendre valeurs calculées',library:'Bibliothèque Supabase Hot Stamping',reload:'↻ Recharger Supabase',foot:'Hot Stamping Calculator · réglages indicatifs à valider sur chute matière avant production.'},en:{title:'Hot Stamping Calculator',subtitle:'Substrates + foils + temperature / pressure / dwell time',machineInputs:'Machine inputs',supportFoil:'Substrate & Foil',machine:'Machine',tempMax:'Max temperature',pressMax:'Max pressure',site:'Site',support:'Substrate',foil:'Foil',area:'Area',quickRead:'Quick read',temperature:'Recommended temperature',pressure:'Recommended pressure',dwell:'Dwell time',calibration:'Workshop calibration',validTemp:'Validated temperature',validPress:'Validated pressure',validDwell:'Validated dwell time',comments:'Notes',save:'💾 Save as validated setting',useCalc:'⤵ Use calculated values',library:'Hot Stamping Supabase library',reload:'↻ Reload Supabase',foot:'Hot Stamping Calculator · indicative settings to validate on scrap before production.'},pt:{title:'Hot Stamping Calculator',subtitle:'Suportes + películas + temperatura / pressão / tempo',machineInputs:'Entradas da máquina',supportFoil:'Suporte & Película',machine:'Máquina',tempMax:'Temperatura máx.',pressMax:'Pressão máx.',site:'Site',support:'Suporte',foil:'Película',area:'Área',quickRead:'Leitura rápida',temperature:'Temperatura recomendada',pressure:'Pressão recomendada',dwell:'Tempo de contacto',calibration:'Calibração oficina',validTemp:'Temperatura validada',validPress:'Pressão validada',validDwell:'Tempo validado',comments:'Observação',save:'💾 Guardar como ajuste validado',useCalc:'⤵ Usar valores calculados',library:'Biblioteca Supabase Hot Stamping',reload:'↻ Recarregar Supabase',foot:'Hot Stamping Calculator · parâmetros indicativos a validar em amostra antes da produção.'}};
+let machines=[{name:'Presse standard',temperature_max:180,pressure_max:8,site:'Atelier'}],supports={paper:{n:{fr:'Papier / carton',en:'Paper / board',pt:'Papel / cartão'}},pmma:{n:{fr:'PMMA / acrylique',en:'PMMA / acrylic',pt:'PMMA / acrílico'}}},foils={gold:{n:{fr:'Or standard',en:'Standard gold',pt:'Ouro padrão'},temp:120,press:3,dwell:.6},black:{n:{fr:'Noir mat',en:'Matt black',pt:'Preto mate'},temp:130,press:3.5,dwell:.7}};
+let q=(s,o={})=>fetch(SUPABASE_URL+'/rest/v1/'+s+(o.q||''),{method:o.m||'GET',headers:{apikey:SUPABASE_KEY,Authorization:'Bearer '+SUPABASE_KEY,'Content-Type':'application/json',Prefer:'return=representation'},body:o.b?JSON.stringify(o.b):undefined}).then(async r=>{if(!r.ok)throw new Error(await r.text());return r.json()});
+function toast(t){let e=$('toast');e.textContent=t;e.style.display='block';setTimeout(()=>e.style.display='none',2200)} function goHub(){location.href='/'} function setLang(l){lang=l;localStorage.setItem('hot_lang',l);refreshText()} function refreshText(){document.querySelectorAll('[data-t]').forEach(e=>e.textContent=TXT[lang][e.dataset.t]||TXT.fr[e.dataset.t]||'');document.querySelectorAll('[data-lang]').forEach(b=>b.classList.toggle('active',b.dataset.lang===lang));fillAll();calc()} function fillAll(){let sm=$('machine'),vm=sm.value;sm.innerHTML='';machines.forEach(m=>sm.add(new Option(m.name,m.name)));if(vm)sm.value=vm;let ss=$('support'),vs=ss.value;ss.innerHTML='';Object.entries(supports).forEach(([k,v])=>ss.add(new Option(v.n[lang],k)));if(supports[vs])ss.value=vs;let sf=$('foil'),vf=sf.value;sf.innerHTML='';Object.entries(foils).forEach(([k,v])=>sf.add(new Option(v.n[lang],k)));if(foils[vf])sf.value=vf}function calc(){let f=foils[$('foil').value],m=machines.find(x=>x.name===$('machine').value)||machines[0];$('rTemp').textContent=Math.min(f.temp,m.temperature_max||f.temp);$('rPress').textContent=Math.min(f.press,m.pressure_max||f.press);$('rDwell').textContent=f.dwell+' s';$('hotNote').textContent='Tester sur chute avant production.';$('cTemp').value=$('rTemp').textContent;$('cPress').value=$('rPress').textContent;$('cDwell').value=f.dwell}
+async function addMachine(){let name=prompt('Nom machine','Nouvelle machine');if(!name)return;let row={name:name.trim(),temperature_max:+prompt('Température max',180),pressure_max:+prompt('Pression max',8),dwell_time_max:2,site:$('site').value||'Atelier'};try{let a=await q('hot_machines',{m:'POST',b:row});machines.push(a[0]);refreshText();$('machine').value=a[0].name;toast('Machine ajoutée')}catch(e){alert('ERREUR SUPABASE:\n\n'+e.message);toast('Erreur machine')}}function addSupport(){toast('Ajout support: utiliser Supabase ou prochaine version')}function addFoil(){toast('Ajout folio: utiliser Supabase ou prochaine version')}function fillCalib(){calc()}async function saveCalib(){try{await q('Hot_Stamping_calibrations',{m:'POST',b:{material:$('support').value,foil:$('foil').value,machine:$('machine').value,temperature:+$('cTemp').value,pressure:+$('cPress').value,dwell_time:+$('cDwell').value,comments:$('comments').value}});toast('Calibration enregistrée');loadCalibs()}catch(e){toast('Erreur Supabase')}}async function loadCalibs(){let host=$('calibs');host.innerHTML='';try{let rows=await q('Hot_Stamping_calibrations',{q:'?select=*&order=created_at.desc&limit=20'});if(!rows.length){host.innerHTML='<p class="unit">Aucune calibration chargée.</p>';return}rows.forEach(r=>{let d=document.createElement('div');d.className='item';d.innerHTML=`<div class="t">${r.material||''} · ${r.foil||''}</div><div class="s">${r.temperature||'-'} °C · ${r.pressure||'-'} bar · ${r.dwell_time||'-'} s</div>`;host.appendChild(d)})}catch(e){host.innerHTML='<p class="unit">Supabase non chargé.</p>'}}
+['tempMax','pressMax','area','machine','support','foil'].forEach(id=>$(id).addEventListener('input',calc));refreshText();loadCalibs();
 </script></body></html>
